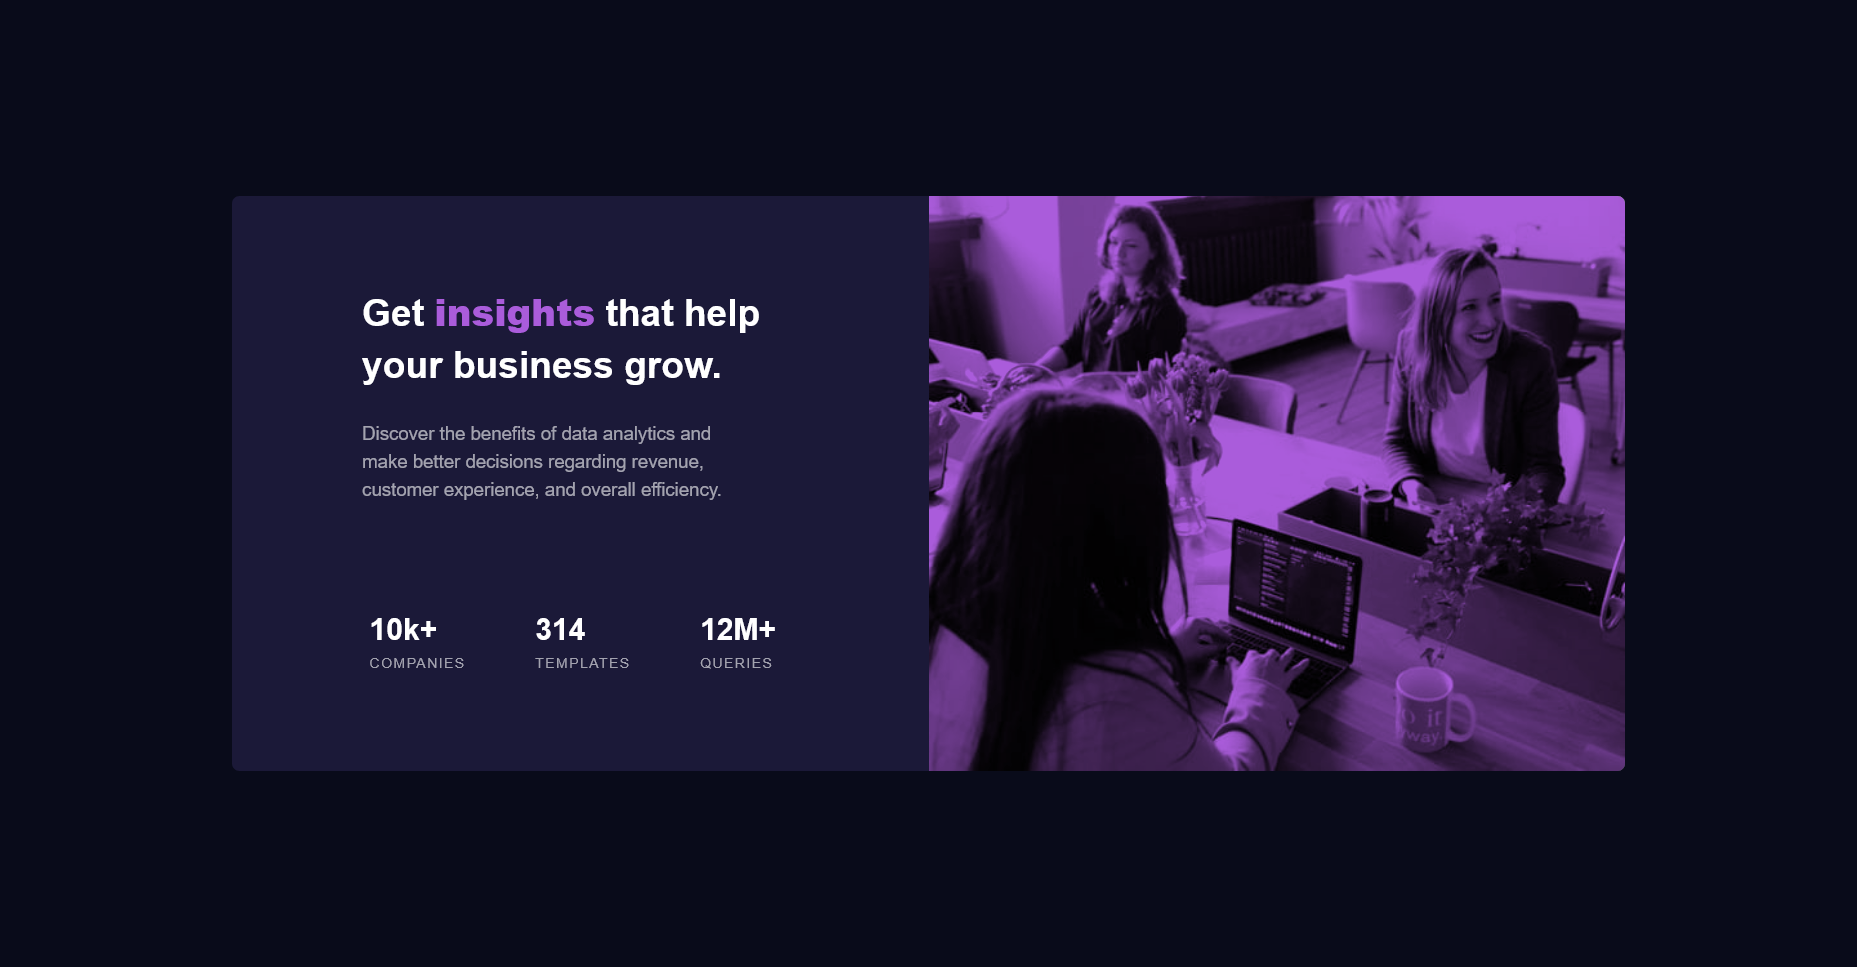
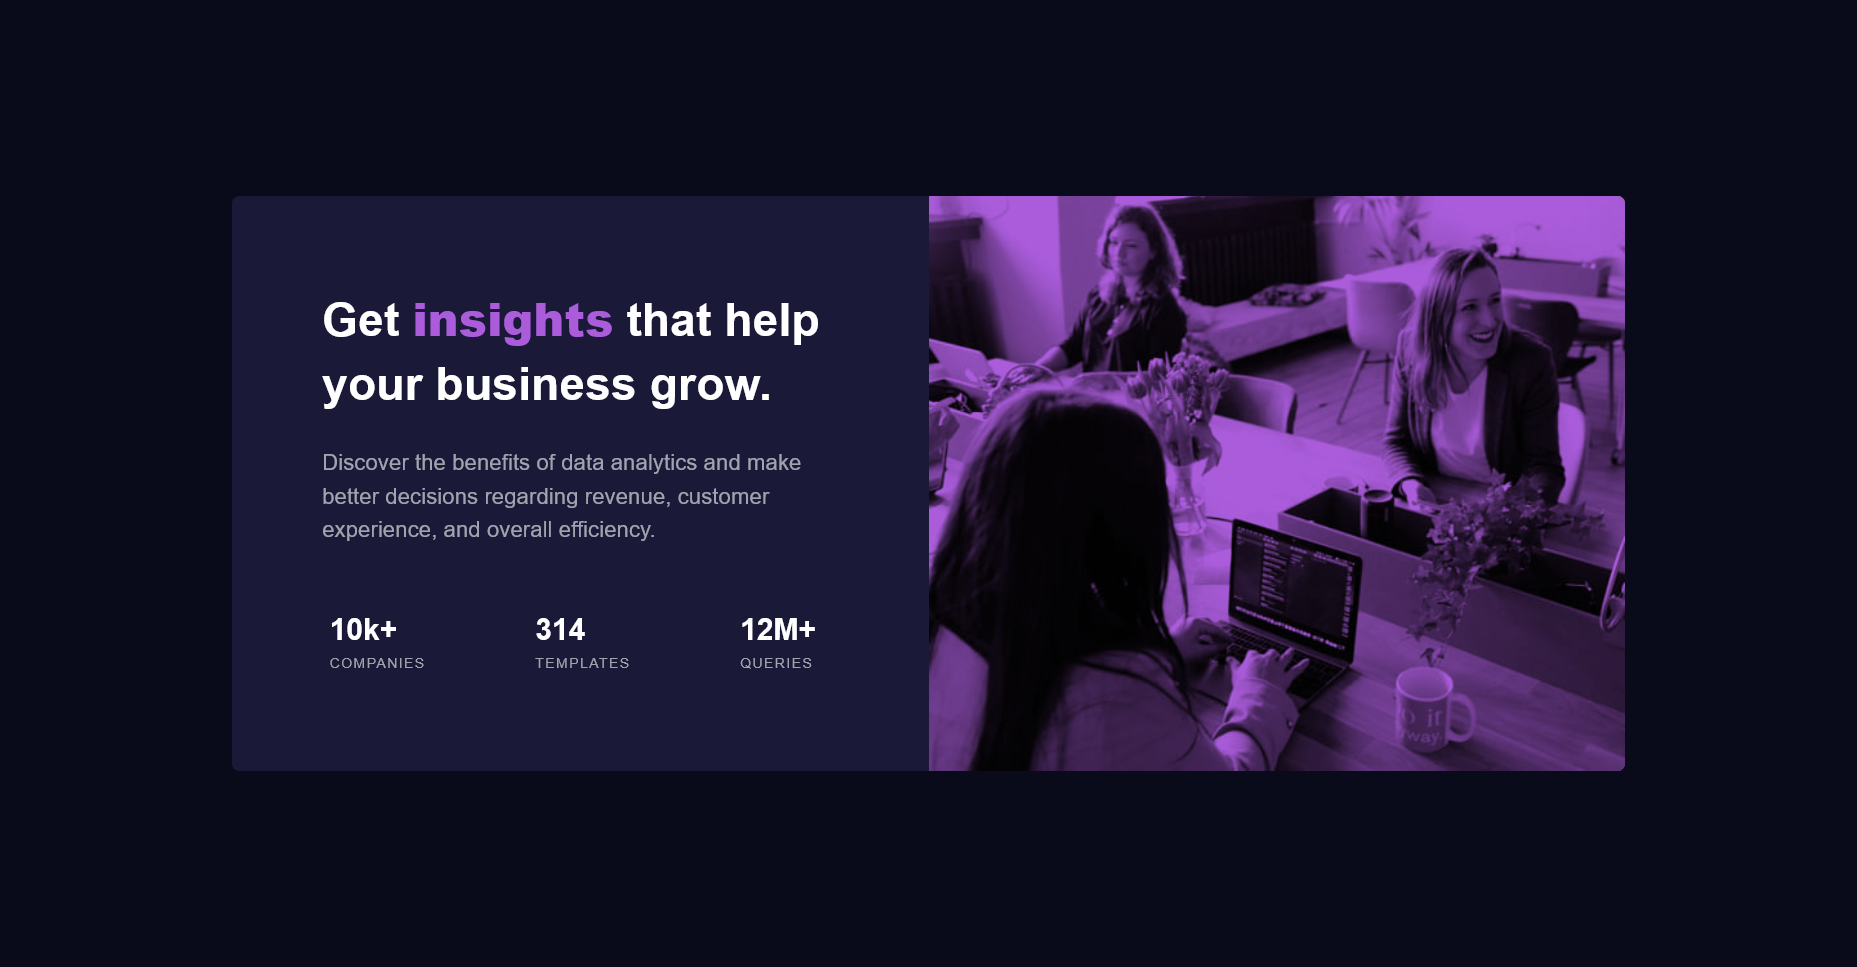
fix: typography

Changed region(s): [[0.1562, 0.3102, 0.4373, 0.5584], [0.3748, 0.6205, 0.4373, 0.7135], [0.1874, 0.6205, 0.2499, 0.7135]]

diff --git a/index.html b/index.html
@@ -36,15 +36,15 @@
 
       <section class="card
       flex flex-col justify-center items-center text-center lg:text-left
-      text-white gap-8 px-[clamp(2.25rem,7vw,9rem)] py-[clamp(2.25rem,5vw,6rem)] lg:justify-between lg:items-start
+      text-white gap-8 px-[clamp(2.25rem,5vw,6rem)] py-[clamp(2.25rem,5vw,6rem)] lg:justify-between lg:items-start
       lg:w-1/2 w-full">
 
         <div class="flex flex-col gap-4 lg:gap-8">
-          <h1 class="text-[clamp(1.875rem,2vw,2.7rem)] font-bold leading-tight  md:leading-snug">
+          <h1 class="text-[clamp(1.875rem,2.5vw,3.5rem)] font-bold leading-tight  md:leading-snug">
             Get <strong class="text-soft-violet ">insights</strong> that help your business grow.
           </h1>
 
-          <p class="text-white-transparent-60 text-[clamp(1rem,1vw,1.25rem)]">
+          <p class="text-white-transparent-60 text-[clamp(1rem,1.2vw,1.8rem)]">
             Discover the benefits of data analytics and make better decisions regarding revenue, customer
             experience, and overall efficiency.
           </p>

diff --git a/src/style.css b/src/style.css
@@ -36,12 +36,6 @@ body {
     align-items: center;
 }
 
-p {
-    word-wrap: break-word;
-    --webkit-text-wrap: balance;
-    text-wrap: balance;
-}
-
 @layer base {
 
     dt {
@@ -66,4 +60,12 @@ p {
     --font-weight-bold: var(--font-weight-bold);
 
     --breakpoint-xs: 30rem;
+}
+
+@media screen and (max-width: 1023px) {
+    p {
+        word-wrap: break-word;
+        --webkit-text-wrap: balance;
+        text-wrap: balance;
+    }   
 }
